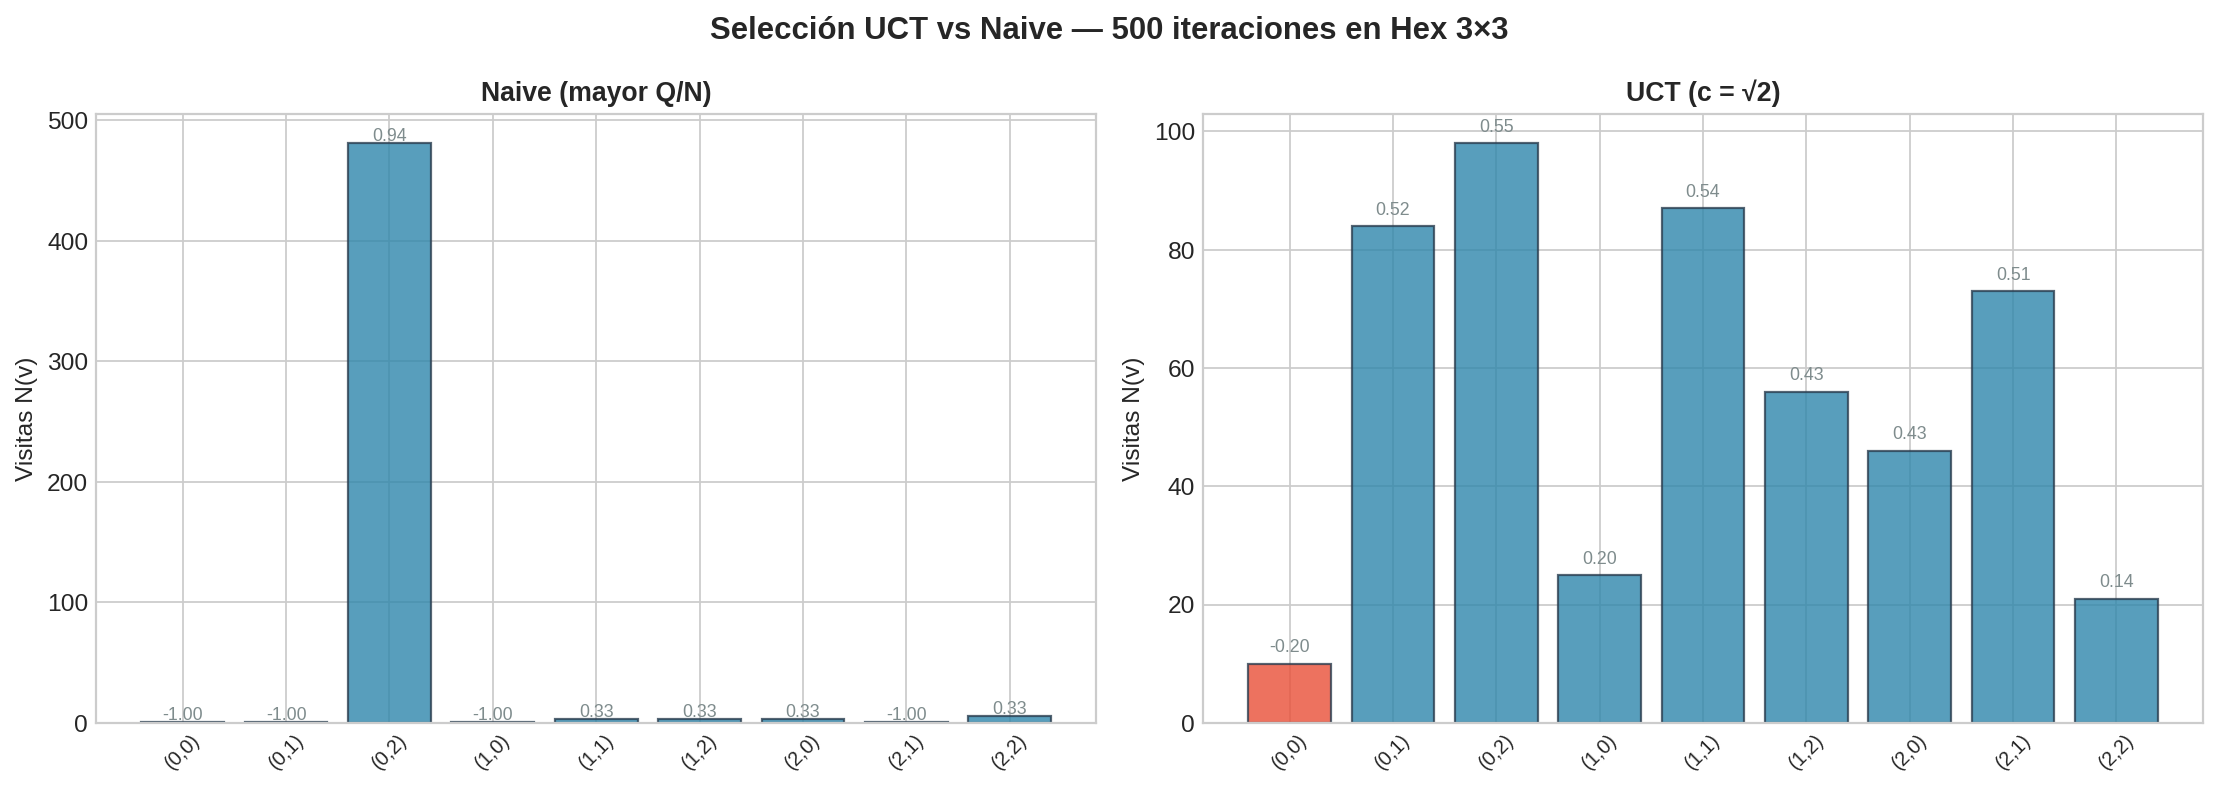
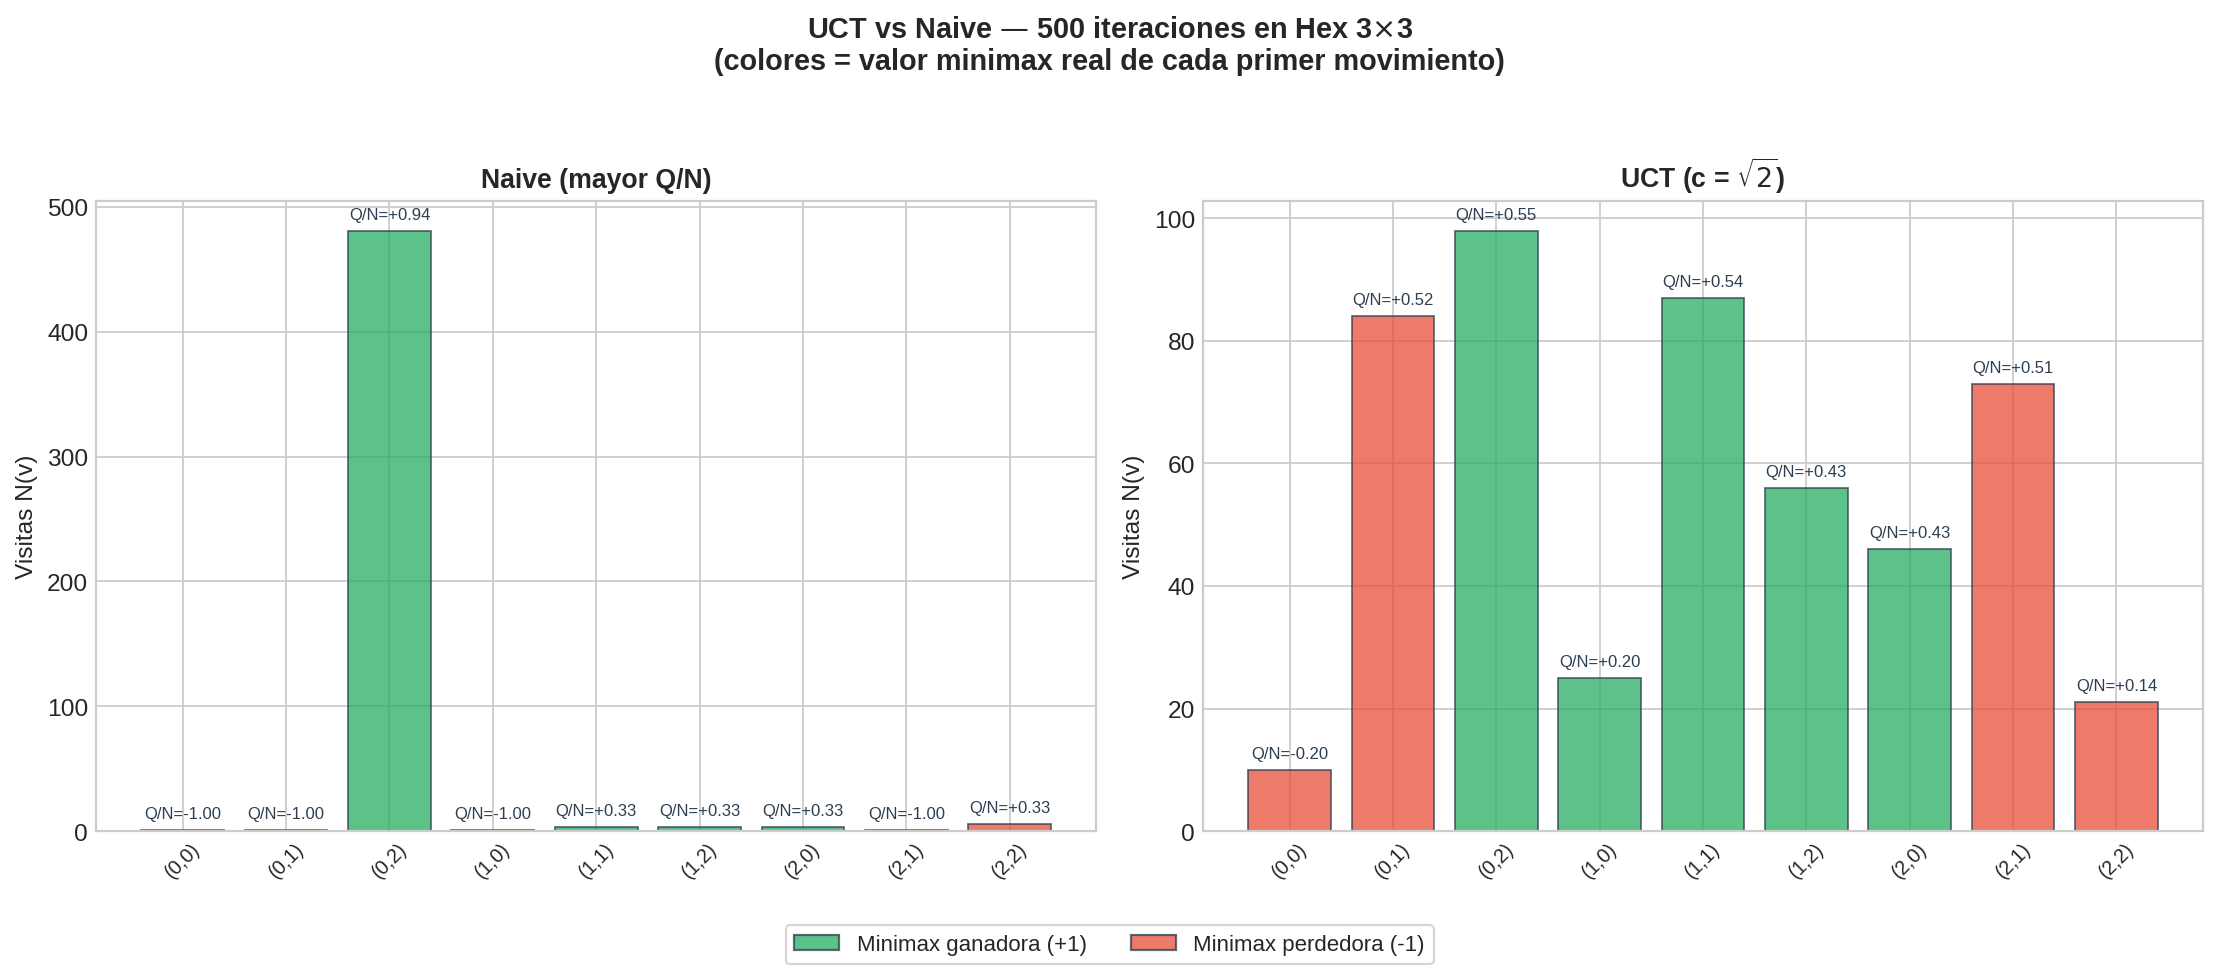
better uct explanation of bonuses

diff --git a/clase/18_montecarlo_search/lab_mcts.py b/clase/18_montecarlo_search/lab_mcts.py
@@ -766,12 +766,20 @@ def plot_09_mcts_trace():
 # ---------------------------------------------------------------------------
 
 def plot_10_uct_vs_uniform():
-    """Compare UCT vs naive selection on Hex 3x3."""
-    fig, (ax1, ax2) = plt.subplots(1, 2, figsize=(14, 5))
+    """Compare UCT vs naive selection on Hex 3x3, with minimax ground truth."""
+    fig, (ax1, ax2) = plt.subplots(1, 2, figsize=(14, 6))
+
+    # Minimax ground truth for Hex 3x3 first move (precomputed)
+    # +1 = winning for Black (player 1), -1 = losing
+    minimax_val = {
+        (0, 0): -1, (0, 1): -1, (0, 2): +1,
+        (1, 0): +1, (1, 1): +1, (1, 2): +1,
+        (2, 0): +1, (2, 1): -1, (2, 2): -1,
+    }
 
     for ax, title, runner in [
         (ax1, "Naive (mayor Q/N)", lambda s, it, p: _run_mcts_naive(s, it, p)),
-        (ax2, "UCT (c = √2)", lambda s, it, p: _run_mcts(s, it, p, c=1.41))
+        (ax2, "UCT (c = $\\sqrt{2}$)", lambda s, it, p: _run_mcts(s, it, p, c=1.41))
     ]:
         random.seed(42)
         state = Hex(3)
@@ -781,20 +789,38 @@ def plot_10_uct_vs_uniform():
         qn = [root.children[a].Q / root.children[a].N if root.children[a].N > 0 else 0
               for a in actions]
         labels = [f"({r},{c})" for r, c in actions]
-        colors = [COLORS["blue"] if v > 0 else COLORS["red"] for v in qn]
-        ax.bar(range(len(actions)), visits, color=colors, alpha=0.8,
-               edgecolor=COLORS["dark"])
+
+        # Color by minimax ground truth: green=winning, red=losing
+        colors = [COLORS["green"] if minimax_val[a] == 1 else COLORS["red"]
+                  for a in actions]
+        bars = ax.bar(range(len(actions)), visits, color=colors, alpha=0.75,
+                      edgecolor=COLORS["dark"], linewidth=0.8)
         ax.set_xticks(range(len(actions)))
         ax.set_xticklabels(labels, rotation=45, fontsize=9)
-        ax.set_ylabel("Visitas N(v)")
+        ax.set_ylabel("Visitas N(v)", fontsize=11)
         ax.set_title(title, fontsize=12, fontweight='bold')
-        # Annotate Q/N on top
-        for j, (v, q) in enumerate(zip(visits, qn)):
-            ax.text(j, v + 2, f"{q:.2f}", ha='center', fontsize=8, color=COLORS["gray"])
 
-    fig.suptitle("Selección UCT vs Naive — 500 iteraciones en Hex 3×3",
-                 fontsize=14, fontweight='bold')
-    plt.tight_layout()
+        # Annotate Q/N on top of each bar
+        max_v = max(visits) if visits else 1
+        for j, (v, q) in enumerate(zip(visits, qn)):
+            ax.text(j, v + max_v * 0.02, f"Q/N={q:+.2f}",
+                    ha='center', fontsize=7.5, color=COLORS["dark"])
+
+    # Legend (shared)
+    from matplotlib.patches import Patch
+    legend_elements = [
+        Patch(facecolor=COLORS["green"], alpha=0.75, edgecolor=COLORS["dark"],
+              label='Minimax ganadora (+1)'),
+        Patch(facecolor=COLORS["red"], alpha=0.75, edgecolor=COLORS["dark"],
+              label='Minimax perdedora (-1)'),
+    ]
+    fig.legend(handles=legend_elements, loc='lower center', ncol=2,
+               fontsize=10, frameon=True, bbox_to_anchor=(0.5, -0.02))
+
+    fig.suptitle("UCT vs Naive — 500 iteraciones en Hex 3$\\times$3\n"
+                 "(colores = valor minimax real de cada primer movimiento)",
+                 fontsize=13, fontweight='bold')
+    plt.tight_layout(rect=[0, 0.05, 1, 0.95])
     _save(fig, "10_uct_vs_uniform.png")
 
 

diff --git a/clase/18_montecarlo_search/04_uct.md b/clase/18_montecarlo_search/04_uct.md
@@ -234,14 +234,15 @@ La única diferencia con la versión de §18.3 es la función `uct_value` en `[U
 
 ## 6. UCT vs selección naive
 
+Para hacer la comparación concreta, usamos Hex 3×3 — lo suficientemente pequeño para conocer la **respuesta exacta por minimax**. De las 9 celdas, 5 son primer movimiento ganador (minimax $= +1$, en verde) y 4 son perdedoras (minimax $= -1$, en rojo). Ambos algoritmos reciben el mismo presupuesto: 500 iteraciones.
+
 ![UCT vs selección uniforme]({{ '/18_montecarlo_search/images/10_uct_vs_uniform.png' | url }})
 
-La figura muestra el mismo presupuesto de iteraciones (500) en la misma posición de Hex 3×3, con dos políticas de selección:
+**Naive** (mayor $Q/N$): la selección se engancha con el primer nodo que tuvo un buen rollout — en este caso $(0,2)$ — y le dedica **481 de 500 visitas** (96% del presupuesto). Las otras 8 acciones reciben entre 1 y 6 visitas cada una. Varias acciones ganadoras como $(1,0)$, $(1,1)$ y $(1,2)$ solo tienen 1–3 visitas, así que el algoritmo **no sabe** que también son ganadoras. Peor aún: con tan pocas visitas, sus estimaciones $Q/N$ son ruidosas y poco confiables ($\pm 1.00$ o $\pm 0.33$). Naive acertó aquí por suerte — si el primer rollout de $(0,2)$ hubiera dado $-1$, se habría enganchado con otra celda y posiblemente con una perdedora.
 
-- **Naive** (mayor $Q/N$): las visitas se concentran en los primeros nodos que tuvieron buen rollout. Ramas prometedoras descubiertas tarde quedan sub-exploradas
-- **UCT** ($c = \sqrt{2}$): las visitas se distribuyen de forma más inteligente. Nodos poco visitados reciben un bonus que garantiza exploración. Conforme acumulan visitas, el bonus decrece y la explotación domina
+**UCT** ($c = \sqrt{2}$): las visitas se distribuyen de forma más inteligente. Las acciones ganadoras (verde) tienden a acumular más visitas — $(0,2)$ tiene 98, $(1,1)$ tiene 87, $(2,0)$ tiene 46 — mientras que las perdedoras (rojo) reciben menos — $(0,0)$ solo 10, $(2,2)$ solo 21. UCT no sabe cuáles son ganadoras *a priori*, pero el bonus de exploración le obligó a probar todas al menos ~10 veces, y después la explotación concentró el esfuerzo en las que mostraron mejores resultados. Observa que las estimaciones $Q/N$ de UCT son más moderadas (entre $-0.20$ y $+0.55$) porque reflejan la probabilidad de ganar con *juego aleatorio*, no con juego óptimo — pero el **ranking** es informativo.
 
-El resultado: UCT converge más rápido a la acción óptima porque evita **tanto** el error de explorar demasiado poco (perder la mejor acción) **como** el de explorar demasiado (desperdiciar rollouts).
+**El contraste clave**: naive sabe mucho sobre *una* acción y casi nada sobre las demás. UCT sabe *algo* sobre todas y *más* sobre las mejores. Esto es exactamente el balance exploración-explotación de UCB1 (§17.3) aplicado al árbol.
 
 ---
 
